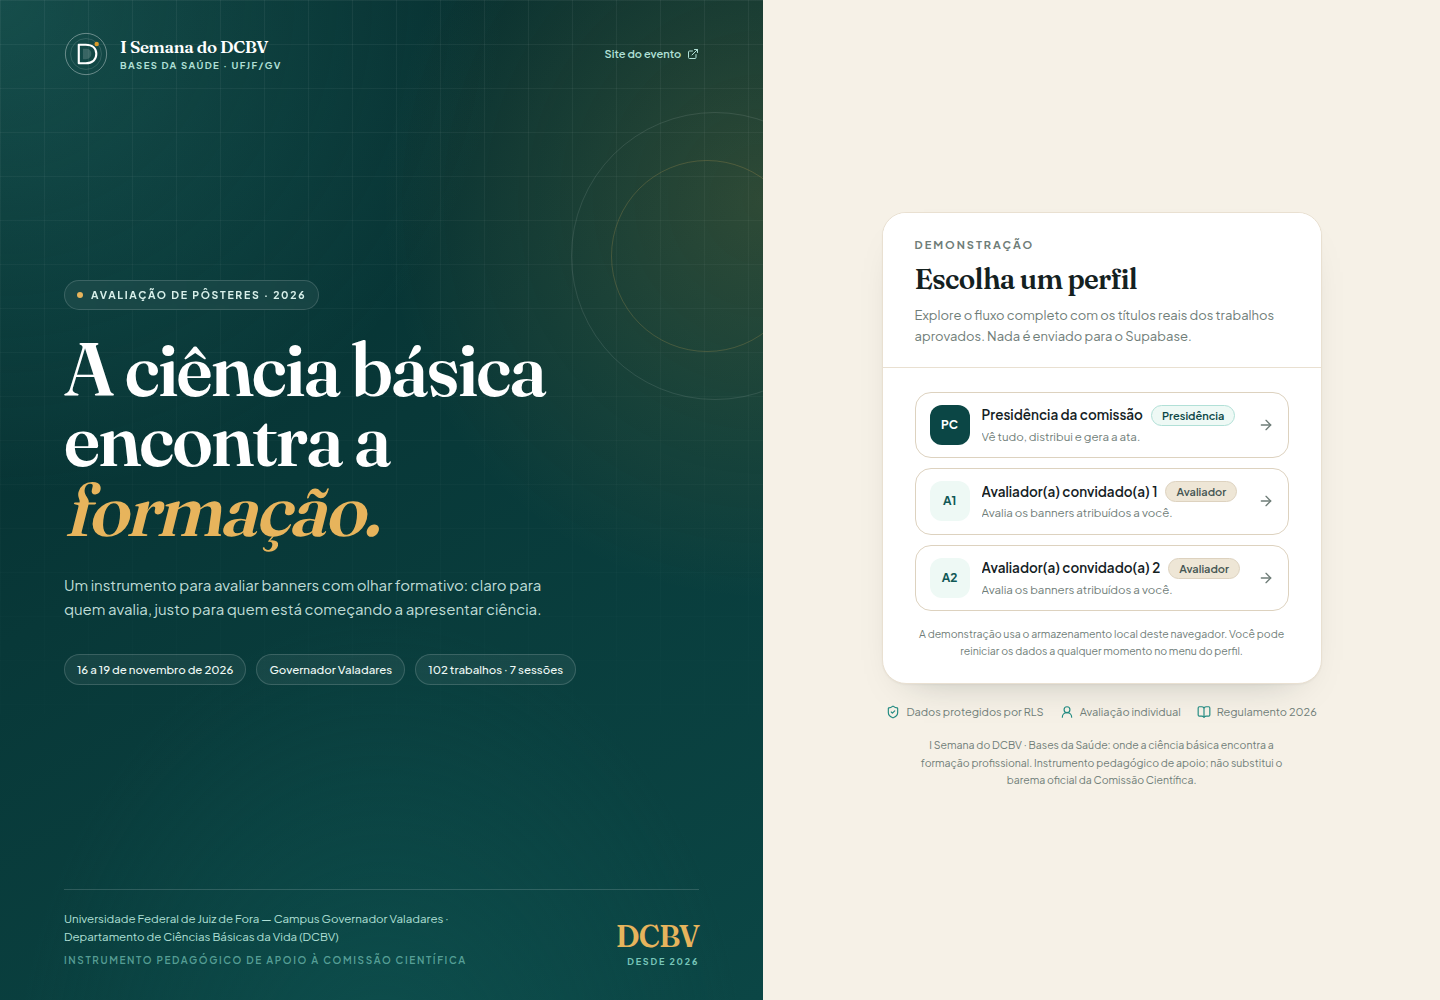
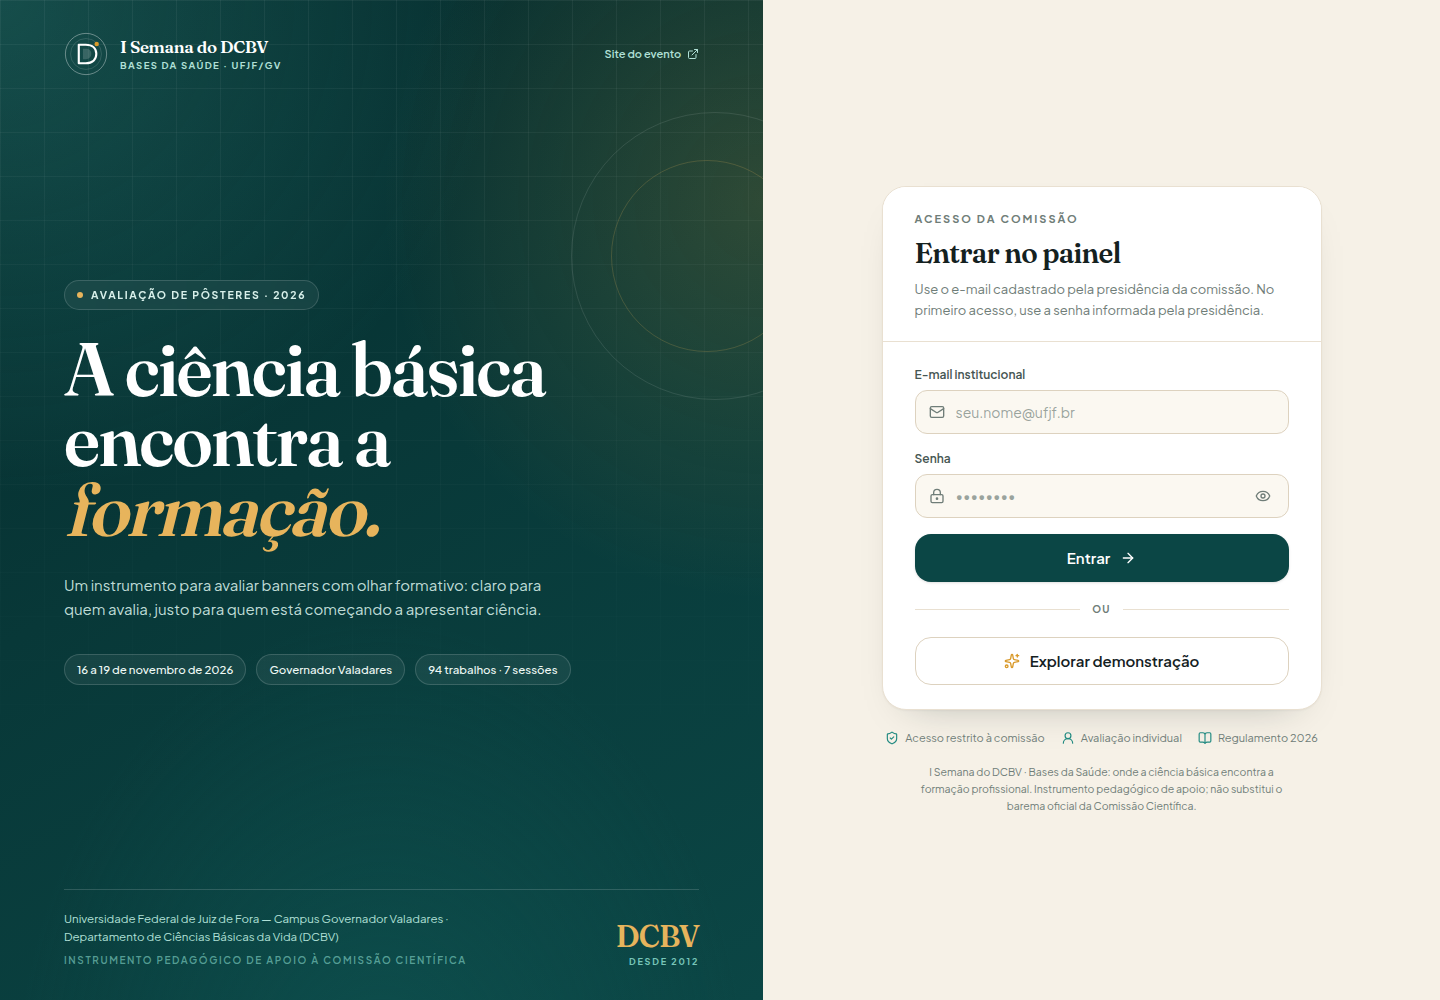
Atualiza cobertura e documentação da base corrigida

Changed region(s): [[0.5938, 0.372, 0.9375, 0.806], [0.625, 0.186, 0.875, 0.341], [0.2812, 0.651, 0.4062, 0.682]]

diff --git a/src/components/RankingTable.tsx b/src/components/RankingTable.tsx
@@ -3,6 +3,7 @@ import { Award, ChevronRight, Filter, Search, X } from 'lucide-react';
 import type { RankingItem } from '../types';
 import { CRITERIOS, rotuloNota } from '../data/rubric';
 import { SESSOES, sessaoPorNumero } from '../data/event';
+import { MINIMO_AVALIACOES_POR_TRABALHO } from '../lib/scoring';
 import { classNames, contar, formatarNota, truncar } from '../lib/format';
 import { Badge } from './Badge';
 
@@ -163,7 +164,7 @@ export function RankingTable({ ranking, onDetalhar }: RankingTableProps) {
                     <span
                       className={classNames(
                         'text-[11px] font-semibold',
-                        item.concluidas >= 2
+                        item.concluidas >= MINIMO_AVALIACOES_POR_TRABALHO
                           ? 'text-emerald-600'
                           : item.concluidas > 0
                             ? 'text-accent-600'

diff --git a/README.md b/README.md
@@ -6,6 +6,8 @@ O app foi construído a partir do convite do Prof. Dr. Márcio Luís Moreira de 
 
 > **Em uma frase:** a banca registra notas e feedback com critérios claros; a presidência enxerga cobertura, ranking e uma minuta de ata. A comissão delibera; o app organiza a evidência.
 
+> **Atualização de 16/11/2026 — decisão da Comissão Científica:** a edição passou a ter **uma avaliação por trabalho**. A base de produção foi ajustada para **94 trabalhos e 94 atribuições** (um avaliador por trabalho), com **0 avaliações** registradas. Os oito códigos que não constam da lista corrigida foram removidos; o guia do avaliador foi atualizado para a versão 2. Detalhes na seção [Base de produção](#base-de-produção-estado-em-16112026).
+
 ---
 
 ## Capturas
@@ -74,7 +76,7 @@ nota = (nível do critério 1 + ... + nível do critério 5) × 5
 - Níveis: `0 = Não avaliável`, `1 = Iniciante`, `2 = Em desenvolvimento`, `3 = Adequado`, `4 = Destaque`.
 - Faixas: `0` Sem nota; `1–59` Iniciante; `60–74` Em desenvolvimento; `75–89` Adequado; `90–100` Destaque.
 - Empates no ranking: média geral, depois médias dos critérios **4, 5, 1, 2, 3**, nesta ordem; persistindo, ordem do código.
-- A cobertura mínima é de **2 avaliações concluídas por trabalho**. Uma única avaliação aparece no ranking como prévia, mas não conta como cobertura completa.
+- A cobertura mínima é de **1 avaliação concluída por trabalho**. Rascunhos não contam; a avaliação concluída já permite a consolidação.
 
 A faixa exata e os rótulos ficam em [`src/data/rubric.ts`](src/data/rubric.ts) e [`src/lib/scoring.ts`](src/lib/scoring.ts).
 
@@ -182,11 +184,11 @@ A aba **Curadoria** (só presidência/master) tem três passos:
 
 1. **Traga os trabalhos** — importe o CSV do parecer ou cadastre manualmente. O código `NN.NN` é a chave; importar de novo atualiza os existentes.
 2. **Cadastre a banca** — nome, e-mail, titulação, instituição, papel e status. No Supabase, cada pessoa precisa de um usuário no Auth com o mesmo e-mail; o vínculo é automático no primeiro login.
-3. **Distribua as avaliações** — clique nas células da matriz. Cada trabalho deve ter dois avaliadores. O botão **Completar distribuição** sugere avaliadores que ainda não estão naquele trabalho.
+3. **Distribua as avaliações** — clique nas células da matriz. Cada trabalho deve ter um avaliador nesta edição. O botão **Completar distribuição** sugere avaliadores que ainda não estão naquele trabalho.
 
 ### Importar atribuições em massa
 
-Na aba **Distribuição**, o botão **Importar lista** aceita uma lista `e-mail;código` (ou `código;e-mail`), uma por linha. É útil para carregar as 95 atribuições do PDF de uma vez ou para acrescentar o segundo avaliador sem clicar célula por célula.
+Na aba **Distribuição**, o botão **Importar lista** aceita uma lista `e-mail;código` (ou `código;e-mail`), uma por linha. É útil para carregar a lista de 94 atribuições da versão corrigida de uma vez, sem clicar célula por célula.
 
 - A prévia mostra **novas**, **já existentes** e **problemas** antes de gravar.
 - E-mails precisam estar cadastrados em **Membros**; códigos precisam existir em **Trabalhos**. A importação **não cria** membros nem trabalhos silenciosamente.
@@ -194,46 +196,23 @@ Na aba **Distribuição**, o botão **Importar lista** aceita uma lista `e-mail;
 - O botão **Cadastrar avaliador** abre o mesmo formulário de membro. Ele cria o perfil, **não a senha**: o usuário do Auth é criado no Supabase, com o mesmo e-mail.
 - O aviso “trabalho com 2+” não impede a importação; serve para você perceber se está duplicando uma atribuição existente.
 
-> **Cobertura do PDF:** o arquivo recebido tem 18 avaliadores únicos e 95 atribuições. Na maioria dos trabalhos há **um avaliador**; o par duplicado `06.02`/`06.03` recebeu dois. O Regulamento e o app pedem dois por trabalho. Use **Completar distribuição** ou importe uma segunda lista; o relatório do SQL mostra quantos trabalhos ainda têm só um.
+> **Cobertura da lista corrigida:** 18 avaliadores e 94 atribuições, uma por trabalho. A base de produção já está com essa distribuição; não há segundo avaliador a completar.
 
-### Carregar a base oficial de 102 trabalhos
+### Base de produção (estado em 16/11/2026)
 
-O banco de produção começa apenas com os 20 trabalhos da demonstração. Para carregar a lista completa do parecer e as atribuições do PDF:
+A base de produção foi ajustada manualmente à lista **“Trabalhos por avaliador - Bases da Saúde_corrigido.pdf”**:
 
-```bash
-npm run dados:importar              # confere o plano, sem gravar
-npm run dados:importar -- --aplicar # grava trabalhos e atribuições
-```
+- **94 trabalhos** e **94 atribuições**: exatamente um avaliador por trabalho;
+- **18 avaliadores** com atribuições; a presidência e os demais membros continuam cadastrados;
+- **0 avaliações** concluídas ou em rascunho no momento da correção;
+- foram removidos os oito códigos que não constam da lista corrigida: `03.13`, `03.33`, `03.35`, `05.13`, `05.16`, `06.02`, `06.11` e `07.03`;
+- o código **`03.44`** citado no e-mail da comissão não existe na lista; o trabalho correspondente é **`03.34`** (Esquistossomose em Capitão Andrade), que está atribuído à Ana Carolina.
 
-O script é **idempotente** e não apaga trabalhos nem avaliações:
+> **Atenção:** `npm run dados:importar` e `supabase/seed_avaliadores.sql` descrevem a **carga inicial histórica** de 102 trabalhos e 95 atribuições. Não os reaplique sobre a base atual: eles podem reintroduzir os registros removidos. Para conferir ou ajustar a distribuição, use a aba **Distribuição** do app.
 
-- lê `supabase/dados/trabalhos_oficiais.json`, gerado a partir da planilha oficial do parecer (102 aprovados; o `02.02` reprovado fica fora);
-- preenche **apresentador, autoria, instituição e sessão** dos trabalhos que já existem;
-- insere os **82 trabalhos que faltavam**, mantendo os 20 da demo;
-- aplica as **95 atribuições** do PDF e remove apenas a atribuição legada `07.03 → Ione Matos` quando o `07.04` já existe e não há avaliação registrada;
-- não altera categorias existentes nem notas.
+### Categoria metodológica
 
-> **Categoria metodológica:** nem o parecer nem o formulário oficial informam a categoria 1–5. Os trabalhos novos entram com **categoria 1** e a observação “Categoria metodológica a confirmar”. A interface mostra **A confirmar** e a Curadoria tem um filtro próprio para revisar esses 82 registros antes da avaliação. A nota não depende da categoria; ela contextualiza o barema.
-
-### Duplicatas da planilha oficial
-
-A planilha do parecer tem **102 linhas, mas 7 títulos aparecem em dois códigos** — o mesmo trabalho, com diferenças de caixa, pontuação, instituição ou ordem de autoria. Não fundimos esses registros automaticamente: a comissão precisa dizer qual código é o oficial.
-
-| Título repetido | Códigos | O que o PDF fez |
-|---|---|---|
-| HIV em mulheres ≥ 40 anos | `03.13` / `03.14` | atribuiu só `03.14` |
-| Micobactéria em células-tronco (microscopia) | `03.17` / `05.13` | atribuiu só `03.17` |
-| Micobactéria em células-tronco (modulação) | `03.22` / `05.16` | atribuiu só `03.22` |
-| Esquistossomose em Capitão Andrade | `03.33` / `03.34` | atribuiu só `03.34` |
-| Fisioterapia domiciliar (Kawan) | `06.02` / `06.03` | atribuiu **os dois** |
-| Fisioterapia domiciliar (Ludimila) | `06.11` / `06.12` | atribuiu só `06.12` |
-| Dengue em Governador Valadares | `07.03` / `07.04` | atribuiu só `07.04` |
-
-O `03.35` (tuberculose e privação de liberdade) é um trabalho **sem par e sem atribuição** no PDF. Por isso a matriz mostra 7 sem atribuição: seis são os códigos duplicados e um é o `03.35`. A tela de Curadoria sinaliza os 14 registros com o selo **duplicata**; a decisão de manter, renomear ou excluir é da comissão.
-
-> O PDF também dá **duas avaliadoras ao par `06.02`/`06.03`**, que é o mesmo título. Isso não deve ser tratado como “dois avaliadores do mesmo trabalho” sem uma decisão: ou os dois códigos são apresentações distintas, ou uma atribuição precisa migrar para o `03.35`.
-
-**Cobertura:** a base tem 95 trabalhos únicos e o PDF tem 95 atribuições, mas a distribuição não é uma por trabalho (ver acima). Depois de resolver as duplicatas, confira a matriz e complete o segundo avaliador de cada trabalho, como pede o Regulamento.
+O parecer e o formulário oficiais não informam a categoria 1–5. Os trabalhos entraram com **categoria 1** e a observação “Categoria metodológica a confirmar”; a interface mostra **A confirmar**. O formulário de avaliação orienta o avaliador a perguntar ao(à) apresentador(a) em qual categoria o trabalho se encaixa; a categoria contextualiza o critério 3 e não altera a nota por si só.
 
 ### CSV
 

diff --git a/supabase/README.md b/supabase/README.md
@@ -4,6 +4,12 @@ Este diretório contém o esquema do banco, as políticas de acesso e o roteiro 
 implantação. O app funciona sem Supabase em **modo demonstração**; o Supabase é
 necessário para uso real com login e dados compartilhados entre a banca.
 
+> **Atualização de 16/11/2026:** a base de produção foi ajustada para **94
+> trabalhos e 94 atribuições**, com **uma avaliação por trabalho**, conforme
+> decisão da Comissão Científica. O roteiro abaixo descreve a implantação
+> inicial; os seeds históricos de 102/95 **não devem ser reaplicados** sobre a
+> base já corrigida. Para ajustes, use a aba **Distribuição** do app.
+
 ## 1. Criar o projeto
 
 1. Crie um projeto em <https://supabase.com/dashboard>.
@@ -48,9 +54,9 @@ No **SQL Editor**, cole e execute o conteúdo inteiro de
 A migração também semeia os **20 trabalhos** usados na demonstração, com os
 títulos exatamente como aparecem no parecer oficial. Autoria, apresentador,
 instituição e período ficam em branco de propósito: o parecer não os informa.
-A base completa de **102 trabalhos aprovados** entra pelo script
-`npm run dados:importar -- --aplicar`, que lê a planilha oficial e preenche
-autoria, apresentador e instituição.
+A carga inicial de **102 trabalhos aprovados** entrava pelo script
+`npm run dados:importar -- --aplicar`; após a correção de 16/11/2026, a base de
+produção tem **94 trabalhos**, sem os oito códigos removidos.
 
 ### 2.1 Carga dos avaliadores e das atribuições do PDF
 
@@ -60,7 +66,8 @@ Editor. Ele:
 - cadastra **18 avaliadores**: a lista tinha 19 nomes, mas “David Henrique” e
   “David Henrique Rodrigues” são a mesma pessoa; “Alexandra Paiva” e “Alexandra
   Paiva Araújo” também foram consolidadas;
-- importa **95 atribuições** extraídas do PDF “Trabalhos por avaliador”;
+- importa a carga histórica de **95 atribuições** do PDF original; a base de
+  produção atual tem **94 atribuições**, uma por trabalho, após a correção;
 - **não cria** usuários no Auth, senhas, notas ou avaliações;
 - termina com um relatório de cobertura.
 
@@ -74,20 +81,16 @@ atribuições que ainda não existem. Se você importar os trabalhos que faltava
 depois, rode o seed outra vez; ele completa os vínculos que antes não tinham
 trabalho correspondente.
 
-**Cobertura:** o PDF lista **um avaliador por trabalho**. O Regulamento (item
-5.1) e o app trabalham com **dois**. Portanto, depois do seed, cada trabalho do
-PDF fica com 1 de 2; a segunda atribuição deve ser feita em **Curadoria →
-Distribuição** (botão **Completar distribuição**) ou por **Importar lista**.
+**Cobertura atual:** a lista corrigida tem **94 trabalhos e 94 atribuições**,
+com **um avaliador por trabalho**. A cobertura mínima do app é 1 avaliação
+concluída; não há segundo avaliador a completar.
 
-**Duplicatas:** a planilha tem 102 linhas, mas 7 títulos aparecem em dois
-códigos (`03.13/03.14`, `03.17/05.13`, `03.22/05.16`, `03.33/03.34`,
-`06.02/06.03`, `06.11/06.12`, `07.03/07.04`). O PDF atribuiu um código da
-maioria dos pares, **os dois** no par `06.02/06.03`, e não atribuiu o `03.35`
-(que não tem par). A interface marca esses 14 registros como **duplicata**; não
-funda os registros sozinha. A comissão deve escolher o código oficial e, se for
-o caso, migrar uma das atribuições de `06.02/06.03` para `03.35`.
+**Duplicatas:** a lista corrigida eliminou os códigos que não constavam da
+distribuição: `03.13`, `03.33`, `03.35`, `05.13`, `05.16`, `06.02`, `06.11` e
+`07.03`. A base atual não tem títulos repetidos. O código `03.44` citado no
+e-mail da comissão não existe na lista; o correspondente é `03.34`.
 
-### 2.2 Carga dos 102 trabalhos oficiais
+### 2.2 Carga inicial histórica (102 trabalhos)
 
 Depois de criar os perfis, rode na máquina do administrador:
 
@@ -97,11 +100,10 @@ npm run dados:importar -- --aplicar # grava
 ```
 
 O script lê [`dados/trabalhos_oficiais.json`](dados/trabalhos_oficiais.json),
-insere os 82 trabalhos que faltam, preenche os campos de autoria dos 20 já
-existentes e aplica as 95 atribuições do PDF. Ele **não apaga** trabalhos,
-avaliações ou atribuições; a única remoção é a atribuição legada
-`07.03 → Ione Matos`, feita somente quando o `07.04` existe e não há avaliação
-registrada.
+inseria os trabalhos que faltavam, preenchia a autoria dos 20 já existentes e
+aplicava as 95 atribuições do PDF original. **Não reaplique este script sobre a
+base de 16/11/2026:** ele pode reintroduzir os oito registros removidos. A
+produção atual já está corrigida para 94/94.
 
 > **Categoria:** o parecer e o formulário não informam a categoria metodológica
 > (1–5). Os 82 trabalhos novos entram com categoria 1 e a observação
